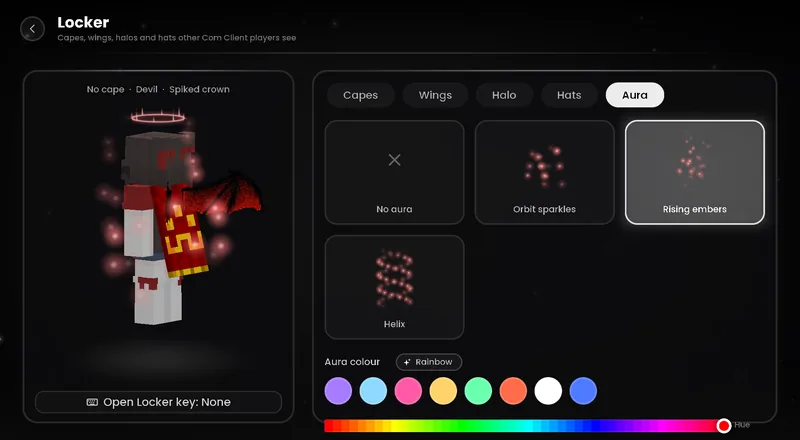
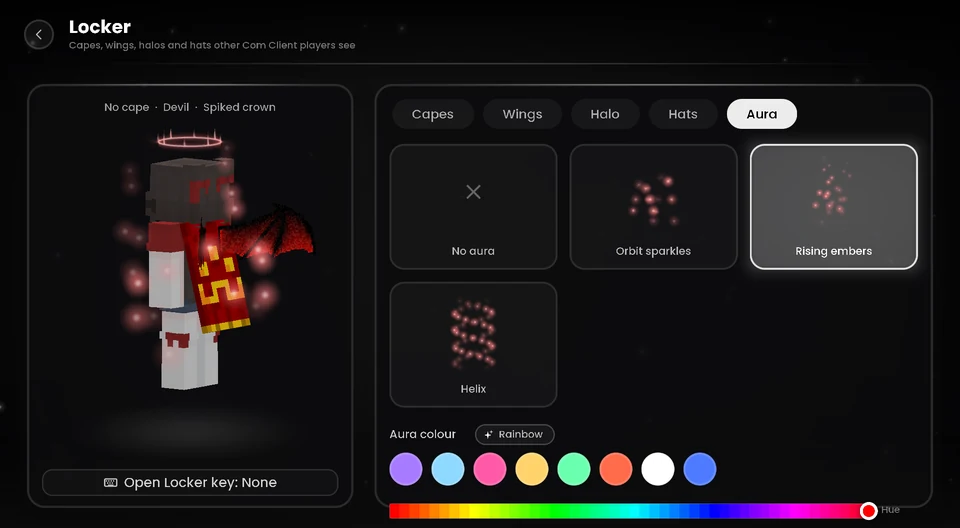
Website: sharper screenshots, drop blurry launcher shots, reword profile text
Claude-Session: https://claude.ai/code/session_01YagRMkn41sY7wY7VDKbYky

diff --git a/website/index.html b/website/index.html
@@ -53,7 +53,7 @@
       <!-- real main menu -->
       <div class="hero-shot">
         <figure class="window shot-frame tilt">
-          <img src="/assets/shots/menu.webp" srcset="/assets/shots/menu-sm.webp 800w, /assets/shots/menu.webp 1600w" sizes="(max-width: 860px) 100vw, 640px" width="1600" height="881" alt="The Com Client main menu with the player's skin, wings, halo and aura">
+          <img src="/assets/shots/menu.webp" srcset="/assets/shots/menu-sm.webp 960w, /assets/shots/menu.webp 1920w" sizes="(max-width: 860px) 100vw, 640px" width="1920" height="1057" alt="The Com Client main menu with the player's skin, wings, halo and aura">
         </figure>
       </div>
     </section>
@@ -102,7 +102,7 @@
         <article class="feature glass">
           <span class="f-icon"><svg viewBox="0 0 24 24"><path d="M4.5 5.5h15v10h-9l-4.5 3.5v-3.5H4.5z"/></svg></span>
           <h3>Your own page</h3>
-          <p>A guns.lol style profile: background, bio, a song and all your socials, plus a feed for what you're up to.</p>
+          <p>Your own profile page with a background, bio, a song and all your socials, plus a feed for what you're up to.</p>
         </article>
         <article class="feature glass">
           <span class="f-icon"><svg viewBox="0 0 24 24"><path d="M12 7v5l3 2M12 21a9 9 0 1 0 0-18 9 9 0 0 0 0 18Z"/></svg></span>
@@ -131,11 +131,11 @@
         <button class="tab" role="tab" data-tab="splash">Start screen</button>
       </div>
       <div class="shots window">
-        <img class="shot on" data-shot="gui" src="/assets/shots/gui-render.webp" width="1600" height="881" alt="Com Client Click GUI showing Render modules like Custom Sky, Radiance and Afterglow">
-        <img class="shot" data-shot="hud" src="/assets/shots/gui-hud.webp" width="1600" height="881" loading="lazy" alt="Click GUI showing HUD modules like Glass Hotbar, FPS and Clock">
-        <img class="shot" data-shot="world" src="/assets/shots/world.webp" width="1600" height="708" loading="lazy" alt="In game with the Com Client HUD and a custom aurora sky">
-        <img class="shot" data-shot="social" src="/assets/shots/feed.webp" width="1600" height="881" loading="lazy" alt="The Social tab with a 24-hour feed, chats and pages">
-        <img class="shot" data-shot="splash" src="/assets/shots/splash.webp" width="1600" height="900" loading="lazy" alt="The Com Client start screen">
+        <img class="shot on" data-shot="gui" src="/assets/shots/gui-render.webp" srcset="/assets/shots/gui-render-sm.webp 960w, /assets/shots/gui-render.webp 1920w" sizes="(max-width: 1220px) 100vw, 1180px" width="1920" height="1057" alt="Com Client Click GUI showing Render modules like Custom Sky, Radiance and Afterglow">
+        <img class="shot" data-shot="hud" src="/assets/shots/gui-hud.webp" srcset="/assets/shots/gui-hud-sm.webp 960w, /assets/shots/gui-hud.webp 1920w" sizes="(max-width: 1220px) 100vw, 1180px" width="1920" height="1057" loading="lazy" alt="Click GUI showing HUD modules like Glass Hotbar, FPS and Clock">
+        <img class="shot" data-shot="world" src="/assets/shots/world.webp" srcset="/assets/shots/world-sm.webp 960w, /assets/shots/world.webp 1920w" sizes="(max-width: 1220px) 100vw, 1180px" width="1920" height="850" loading="lazy" alt="In game with the Com Client HUD and a custom aurora sky">
+        <img class="shot" data-shot="social" src="/assets/shots/feed.webp" srcset="/assets/shots/feed-sm.webp 960w, /assets/shots/feed.webp 1920w" sizes="(max-width: 1220px) 100vw, 1180px" width="1920" height="1057" loading="lazy" alt="The Social tab with a 24-hour feed, chats and pages">
+        <img class="shot" data-shot="splash" src="/assets/shots/splash.webp" srcset="/assets/shots/splash-sm.webp 960w, /assets/shots/splash.webp 1920w" sizes="(max-width: 1220px) 100vw, 1180px" width="1920" height="1080" loading="lazy" alt="The Com Client start screen">
       </div>
       <p class="mock-note">Real screenshots, taken in game.</p>
     </section>
@@ -153,9 +153,9 @@
         </ul>
       </div>
       <div class="cos-shots">
-        <figure class="window shot-frame big"><img src="/assets/shots/locker-wings.webp" srcset="/assets/shots/locker-wings-sm.webp 800w, /assets/shots/locker-wings.webp 1600w" sizes="(max-width: 860px) 100vw, 600px" width="1600" height="881" loading="lazy" alt="Locker: wings"><figcaption>Wings</figcaption></figure>
-        <figure class="window shot-frame"><img src="/assets/shots/locker-aura-sm.webp" width="800" height="440" loading="lazy" alt="Locker: auras"><figcaption>Auras</figcaption></figure>
-        <figure class="window shot-frame"><img src="/assets/shots/locker-capes-sm.webp" width="800" height="440" loading="lazy" alt="Locker: capes"><figcaption>Capes</figcaption></figure>
+        <figure class="window shot-frame big"><img src="/assets/shots/locker-wings.webp" srcset="/assets/shots/locker-wings-sm.webp 960w, /assets/shots/locker-wings.webp 1920w" sizes="(max-width: 860px) 100vw, 600px" width="1920" height="1057" loading="lazy" alt="Locker: wings"><figcaption>Wings</figcaption></figure>
+        <figure class="window shot-frame"><img src="/assets/shots/locker-aura.webp" srcset="/assets/shots/locker-aura-sm.webp 960w, /assets/shots/locker-aura.webp 1920w" sizes="(max-width: 860px) 100vw, 300px" width="1920" height="1057" loading="lazy" alt="Locker: auras"><figcaption>Auras</figcaption></figure>
+        <figure class="window shot-frame"><img src="/assets/shots/locker-capes.webp" srcset="/assets/shots/locker-capes-sm.webp 960w, /assets/shots/locker-capes.webp 1920w" sizes="(max-width: 860px) 100vw, 300px" width="1920" height="1057" loading="lazy" alt="Locker: capes"><figcaption>Capes</figcaption></figure>
       </div>
     </section>
 
@@ -165,11 +165,6 @@
         <span class="eyebrow">Launcher</span>
         <h2>One launcher. Zero setup.</h2>
         <p>It installs Minecraft, Fabric, Java and Com Client by itself and keeps them up to date.</p>
-      </div>
-      <div class="launcher-shots">
-        <figure class="window shot-frame main"><img src="/assets/shots/launcher-play.webp" width="1178" height="718" loading="lazy" alt="The Com Client launcher home page"></figure>
-        <figure class="window shot-frame"><img src="/assets/shots/launcher-gallery.webp" width="1178" height="718" loading="lazy" alt="Launcher gallery with screenshots from all profiles"><figcaption>Gallery</figcaption></figure>
-        <figure class="window shot-frame"><img src="/assets/shots/launcher-mods.webp" width="1178" height="718" loading="lazy" alt="Launcher Modrinth browser"><figcaption>Mods &amp; packs</figcaption></figure>
       </div>
       <div class="launcher-list">
         <div><b>Several accounts</b><span>Microsoft sign-in, switch in one click</span></div>
